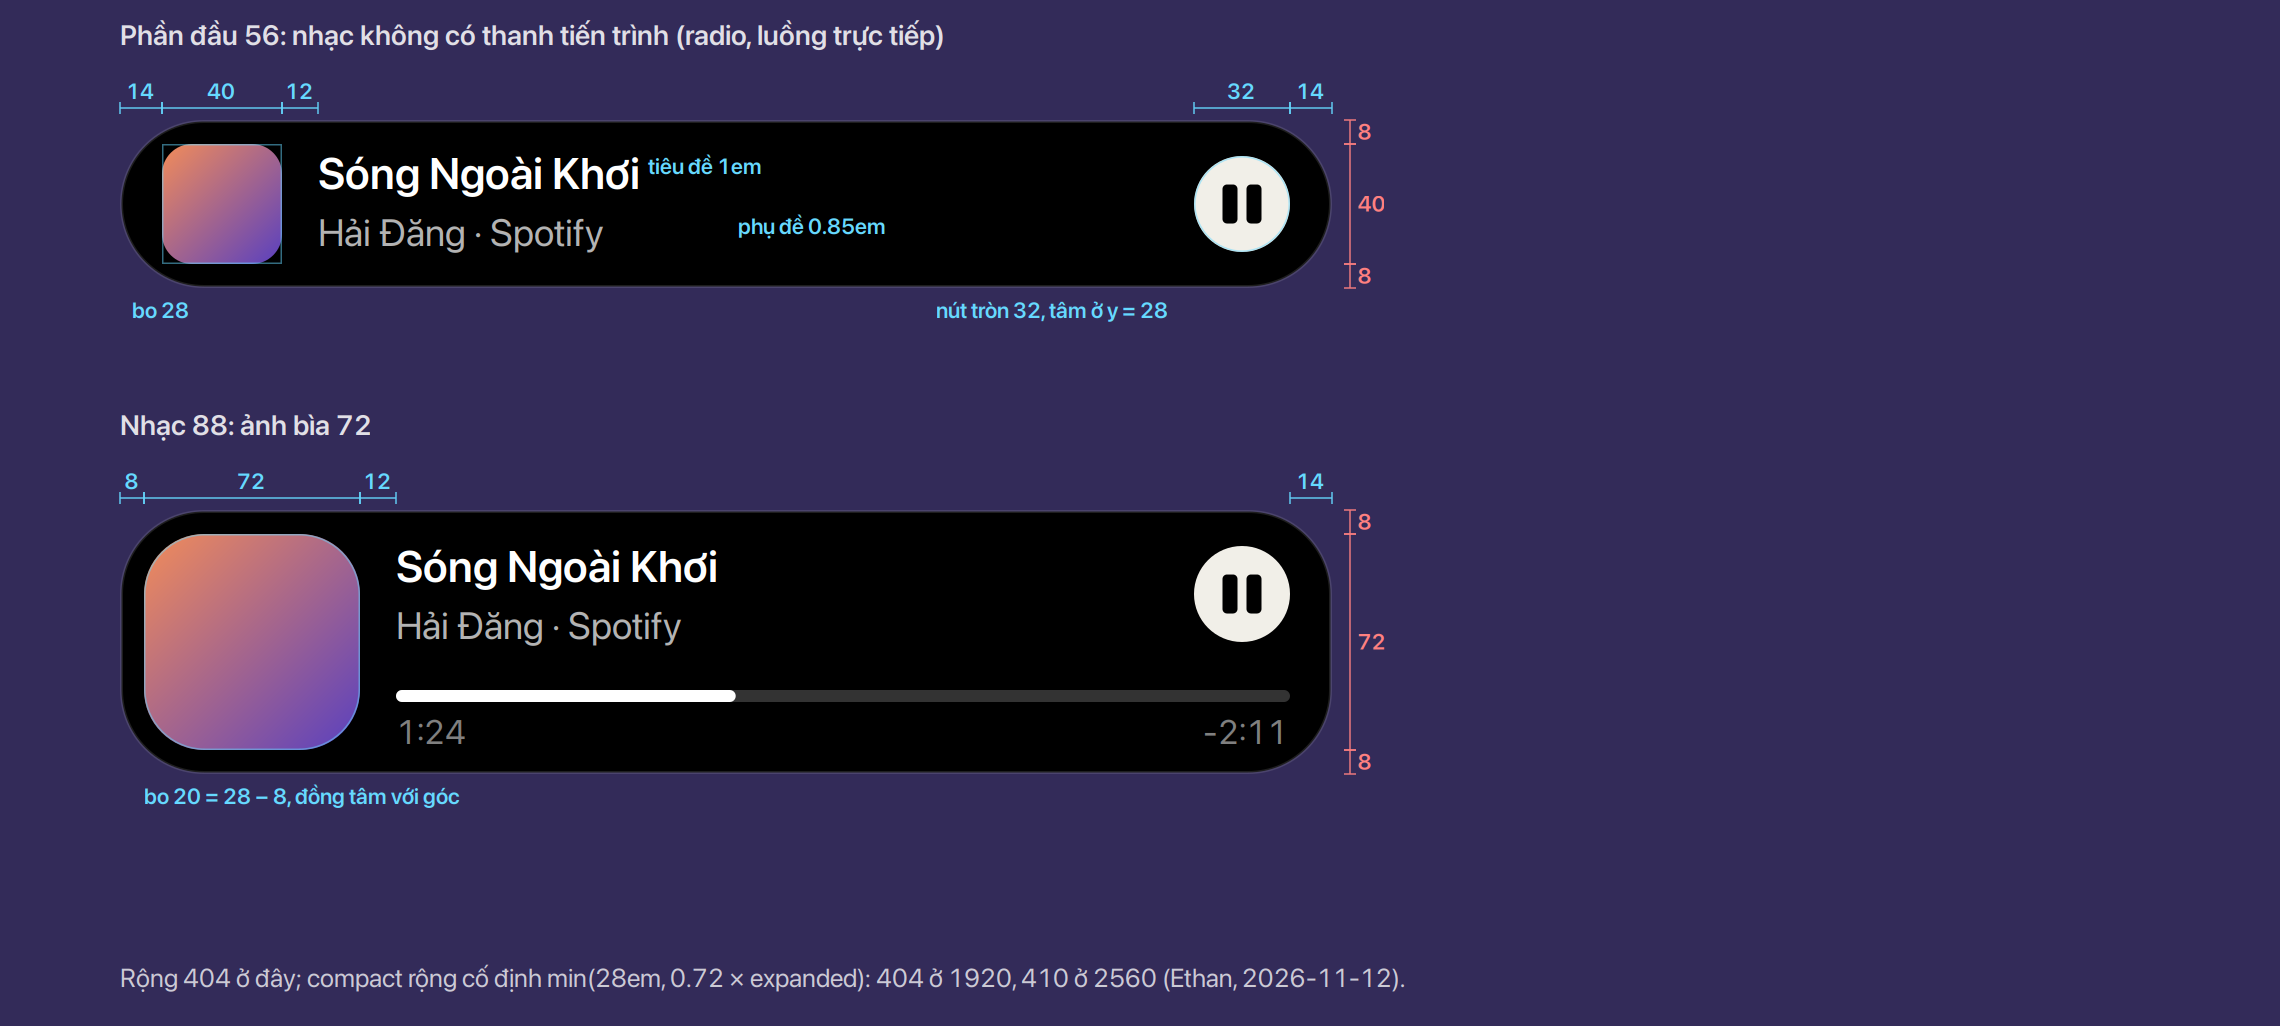
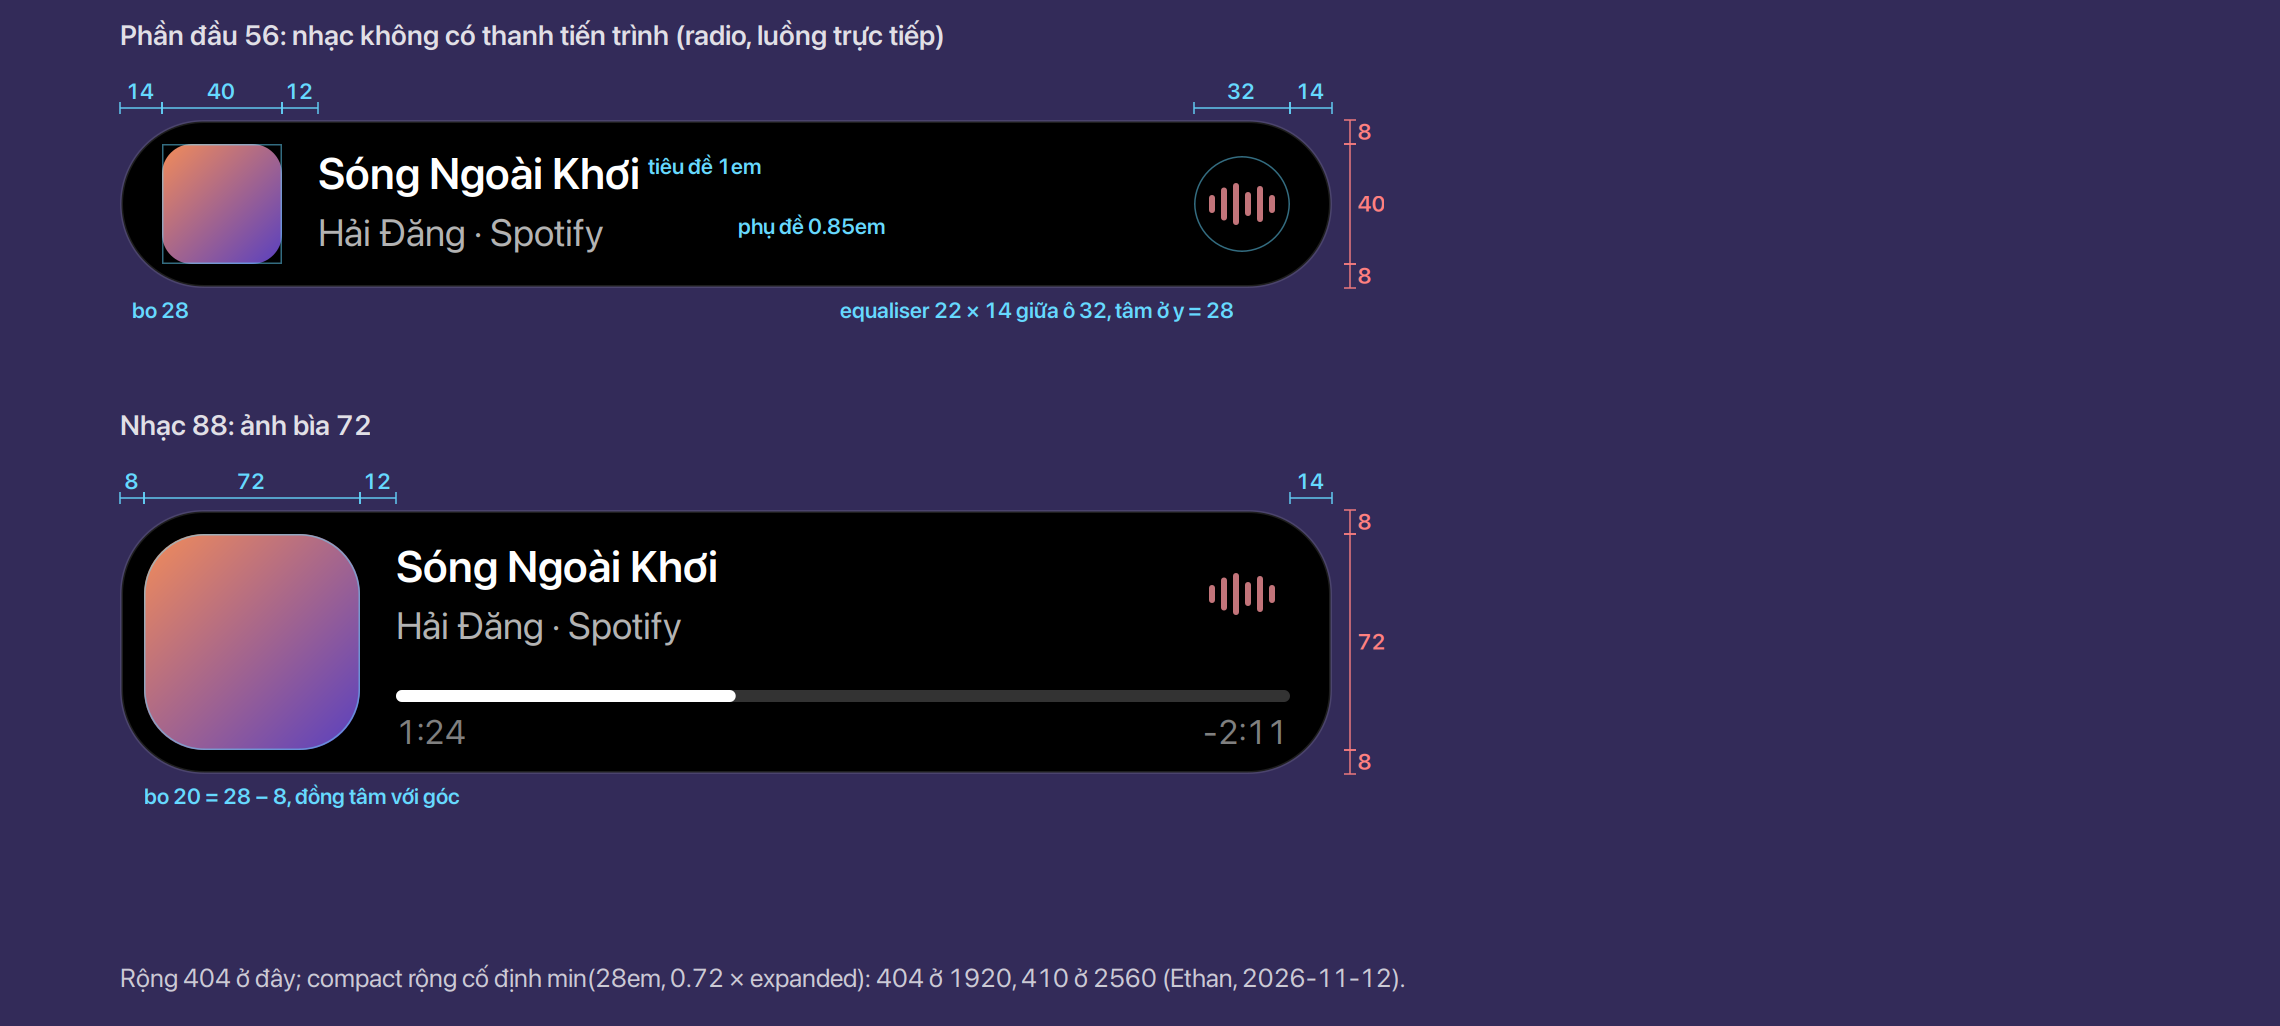
docs(design): the media compact shows the equaliser in the pause button's place
Decided 2026-11-13 (Ethan): in the compact's head the equaliser, six bars of
2 × 14 in the cover's colour, sits in the round button's 32 slot; ⏮ ⏯ ⏭ stay on
the Media tab. The slot is still the play/pause button, shown on hover: at rest
the equaliser, under the pointer the round button (⏸ or ▶), back to the
equaliser when it leaves. The equaliser is a shared part of the pill and the
compact, so it travels there with the bg instead of fading (design/motion): the
code comes with "Motion: shared parts". The compact's media drawing is redrawn.

Proposed, not decided: the equaliser in the top right corner of Home's media
tile (design/home "Ô nhạc").

Refs: FEATURES.md M4 "Equaliser in the cover's colour"

Changed region(s): [[0.3737, 0.2807, 0.5605, 0.3119], [0.4982, 0.5302, 0.5917, 0.6238], [0.4982, 0.1559, 0.5917, 0.2495]]

diff --git a/docs/design/compact/render/anatomy-compact.js b/docs/design/compact/render/anatomy-compact.js
@@ -9,7 +9,7 @@
 import Pango from 'gi://Pango';
 import PangoCairo from 'gi://PangoCairo';
 import cairo from 'cairo';
-import {taskState, icon, C, GREY, drawBu, SAMPLE} from '../../render/lib.js';
+import {taskState, icon, C, GREY, drawBu, drawEq, EQ, SAMPLE} from '../../render/lib.js';
 
 const SC = 3, W = 760, R = 28, PAD = 14, CW = 404, X = 40;   // the compact at 1920: min(28em, 0.72 × expanded)
 const W1 = C.WHITE, G = GREY.MUTED, G2 = GREY.MUTED, CY = [.4, .85, 1], RD = [1, .5, .5];   // CY, RD: guide marks
@@ -102,12 +102,13 @@ for (const it of ROWS) {
         grad(lx, y + 8, 40, 10, ...ART); guide(lx, y + 8, 40, 40);
         const tx = lx + 40 + 12;
         text(SAMPLE.track, tx, y + 9, 11, 600, W1); text(SAMPLE.sub, tx, y + 29, 9.5, 400, G);
-        round(xr - 16, y + R, '⏸'); guide(xr - 32, y + 12, 32, 32, 16);
+        // the equaliser in the round button's place (design/compact "Nhạc", 2026-11-13)
+        drawEq(cr, xr - 16 - EQ.width / 2, y + R); guide(xr - 32, y + 12, 32, 32, 16);
         dim(x, lx, y - 4, '14'); dim(lx, lx + 40, y - 4, '40'); dim(lx + 40, tx, y - 4, '12');
         dim(xr - 32, xr, y - 4, '32'); dim(xr, x + pw, y - 4, '14');
         vdim(x + pw + 6, y, y + 8, '8'); vdim(x + pw + 6, y + 8, y + 48, '40'); vdim(x + pw + 6, y + 48, y + 56, '8');
         text('tiêu đề 1em', tx + 110, y + 11, 5.5, 600, CY); text('phụ đề 0.85em', tx + 140, y + 31, 5.5, 600, CY);
-        text('nút tròn 32, tâm ở y = 28', xr - 118, y + h + 3, 5.5, 600, CY);
+        text('equaliser 22 × 14 giữa ô 32, tâm ở y = 28', xr - 150, y + h + 3, 5.5, 600, CY);
         text('bo 28', x + 4, y + h + 3, 5.5, 600, CY);
     }
 
@@ -115,7 +116,7 @@ for (const it of ROWS) {
         const ax = x + 8, tx = ax + 72 + 12;
         grad(ax, y + 8, 72, 20, ...ART); guide(ax, y + 8, 72, 72, 20);
         text(SAMPLE.track, tx, y + 10, 11, 600, W1); text(SAMPLE.sub, tx, y + 30, 9.5, 400, G);
-        round(xr - 16, y + R, '⏸');
+        drawEq(cr, xr - 16 - EQ.width / 2, y + R);
         const by = y + 60;
         cr.setSourceRGBA(1, 1, 1, C.FILL3); rr(tx, by, xr - tx, 4, 2); cr.fill();
         cr.setSourceRGB(1, 1, 1); rr(tx, by, (xr - tx) * .38, 4, 2); cr.fill();

diff --git a/docs/FEATURES.md b/docs/FEATURES.md
@@ -56,7 +56,7 @@ to their places there (2026-11-12, Ethan).
 | [x] | Motion | as design/motion: springs (`kit/model/motion.js`, unit-tested: ζ, overshoot, settling, retarget) for every move, size and shape, run on the frame clock; velocity kept when cut short; fades and CSS states; the radius follows the height; tab switch and in-place lists; animations off and slow-down-factor honoured; `shrinkStop` gone; SPEC §5 updated |
 | [x] | Media tab | as design/media: M1 — the body one card (fill-1, r 16) as Home's main card, the art 8 in (196 / 260 / 292), the players' chips above it; every button and the seek bar always there, disabled (no hover) where the player can't (MPRIS CanSeek, CanGoPrevious/Next, Shuffle, LoopStatus); paused, no length, no cover, nothing playing |
 | [x] | Motion: shared parts | as design/motion "Phần chung đi tới chỗ mới": the parts both forms have (the leading, the title) travel to their places in the compact and in expanded (Home's main card, the Media tab) on the bg's spring, by `translation` and `scale` (drawn at their end size); the parts only one form has fade or are uncovered as now; SPEC §5 updated
-| [~] | Equaliser in the cover's colour | as design/pill "Equaliser": six bars of 2 × 14 in the cover's main colour (one colour, read once per cover, lifted to 4.5:1 on black; white for a cover without colour, a stale activity and high contrast), in the pill and on the Media tab's chips; a cover near the lights' amber or red keeps its colour; paused, the bars come down to their low line in 200 ms; SPEC §6 and CONTRACT updated. Left: seen with a real player and a cover from the web |
+| [~] | Equaliser in the cover's colour | as design/pill "Equaliser": six bars of 2 × 14 in the cover's main colour (one colour, read once per cover, lifted to 4.5:1 on black; white for a cover without colour, a stale activity and high contrast), in the pill and on the Media tab's chips; a cover near the lights' amber or red keeps its colour; paused, the bars come down to their low line in 200 ms; SPEC §6 and CONTRACT updated. Left: the media compact shows it in place of ⏸ (design/compact "Nhạc"), travelling there from the pill with "Motion: shared parts"; seen with a real player and a cover from the web |
 | [x] | Symbolic icons from Gravity UI | as design/icons "Icon symbolic" and "Icon tự vẽ": every symbolic icon Buoy draws (tabs, buttons, rows, HUD/OSD, media, calendar, downloads, copied) is a Gravity UI drawing or Buoy's own in its style, shipped as `icons/symbolic/<theme name>-symbolic.svg` so a missing file falls back to the theme's icon of that name; the HUD says airplane mode and Bluetooth on/off; GNOME's own stay in prefs, the system cluster and app logos |
 | [x] | Claude Code's questions in Buoy | as design/alerts-and-asks "Hỏi nhiều lựa chọn": AskUserQuestion answered in a card (one row per choice, Other typed in place, Next / Back / Submit), sent once as `answers`; tried first through PermissionRequest in an interactive session; CODING-AGENTS updated |
 | [x] | Claude Code Desktop's plan | the Desktop app's own task list (its `update_plan` tool: a whole plan, advance, done/start) read as Claude's task list — the pill's step and progress, the compact's rows; CODING-AGENTS updated |

diff --git a/docs/design/home/index.vi.md b/docs/design/home/index.vi.md
@@ -104,6 +104,13 @@ chính lấy phần còn lại: không cuộn, không chỗ trống.
 - Danh sách +K ("Đang diễn ra"): mọi activity theo thứ tự stack; bấm hàng mở tab của nó. Dài hơn 5
   hàng thì cuộn, chỉ ở danh sách này. **Chốt** (Ethan, 2026-11-12)
 
+## Ô nhạc
+
+- **Equaliser ở góc trên phải ô nhạc**, chỗ ô thời tiết ghi tuổi số đo và ô Bị nhỡ đặt icon app: sáu
+  thanh 2 × 14 theo màu bìa ([Pill](../pill/index.vi.md), "Equaliser"), canh giữa theo ô leading
+  20. Đang phát thì chạy (chỉ khi Home đang mở, luật 8), đang dừng thì thấp. Nhiều player: nhìn
+  góc là biết ô nào đang phát. **Đề xuất**
+
 ## Quay màn hình trong Home
 
 ![Đang quay: bản ghi là thẻ chính; Claude Code hỏi lúc đang quay: bản ghi là một ô](images/screen.vi.png)

diff --git a/docs/design/motion/index.vi.md b/docs/design/motion/index.vi.md
@@ -40,6 +40,9 @@ và cách từng chuyển diễn ra; số dùng chung ở [Bảng số](../token
   dụng chung: builder của kit tự gắn nhãn, module tự vẽ (thẻ nhạc ở Home, tab Media) thêm một
   dòng `markShared`. Làm trong M4 (2026-11-13). **Đề xuất** (Ethan, 2026-11-13: "các widget chuyển
   sang đúng tab của nó với animation")
+- Nhạc: **equaliser cũng là phần chung**. Compact của nhạc có equaliser ở chỗ nút tròn
+  ([Compact](../compact/index.vi.md), "Nhạc"), nên nó đi từ trailing của pill tới đó bằng
+  `translation`, cùng cỡ (22 × 14), không còn `fade-out`. **Chốt** (Ethan, 2026-11-13)
 
 ## Lò xo và độ mờ
 
